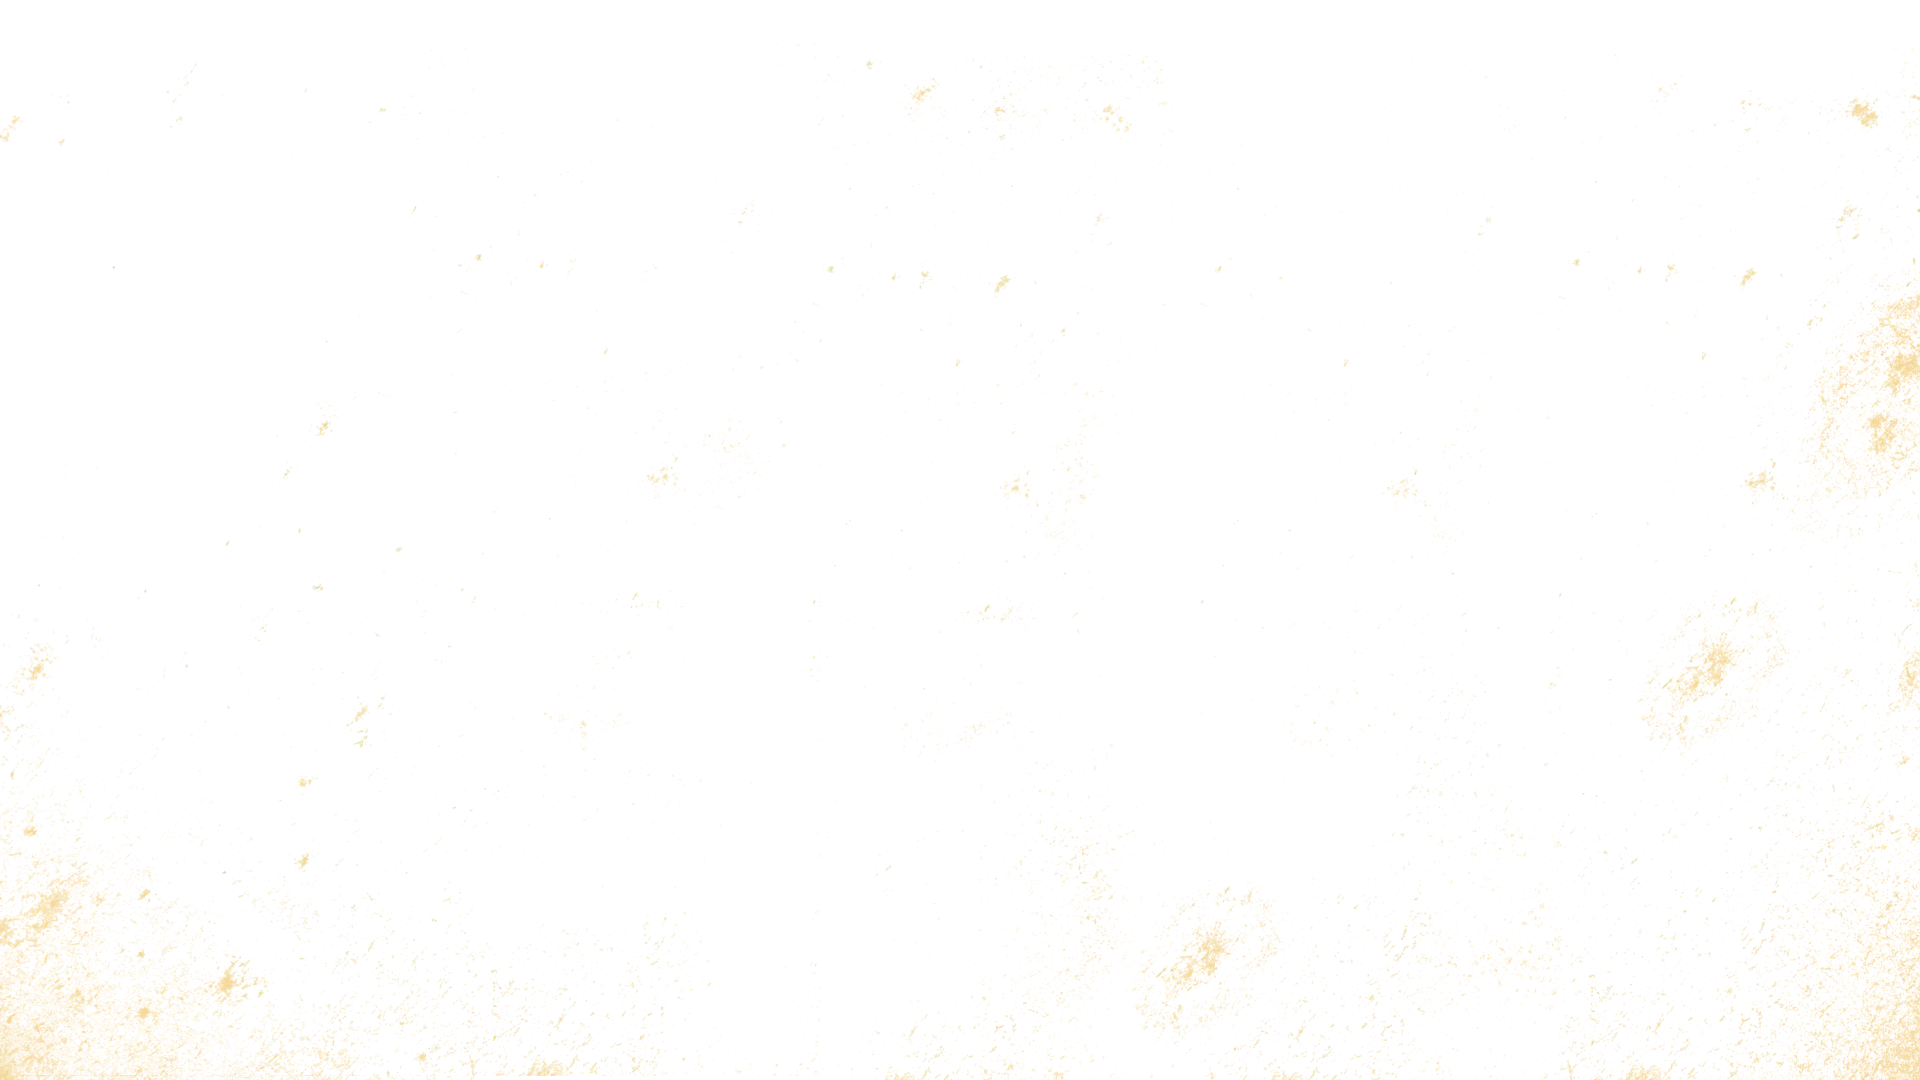
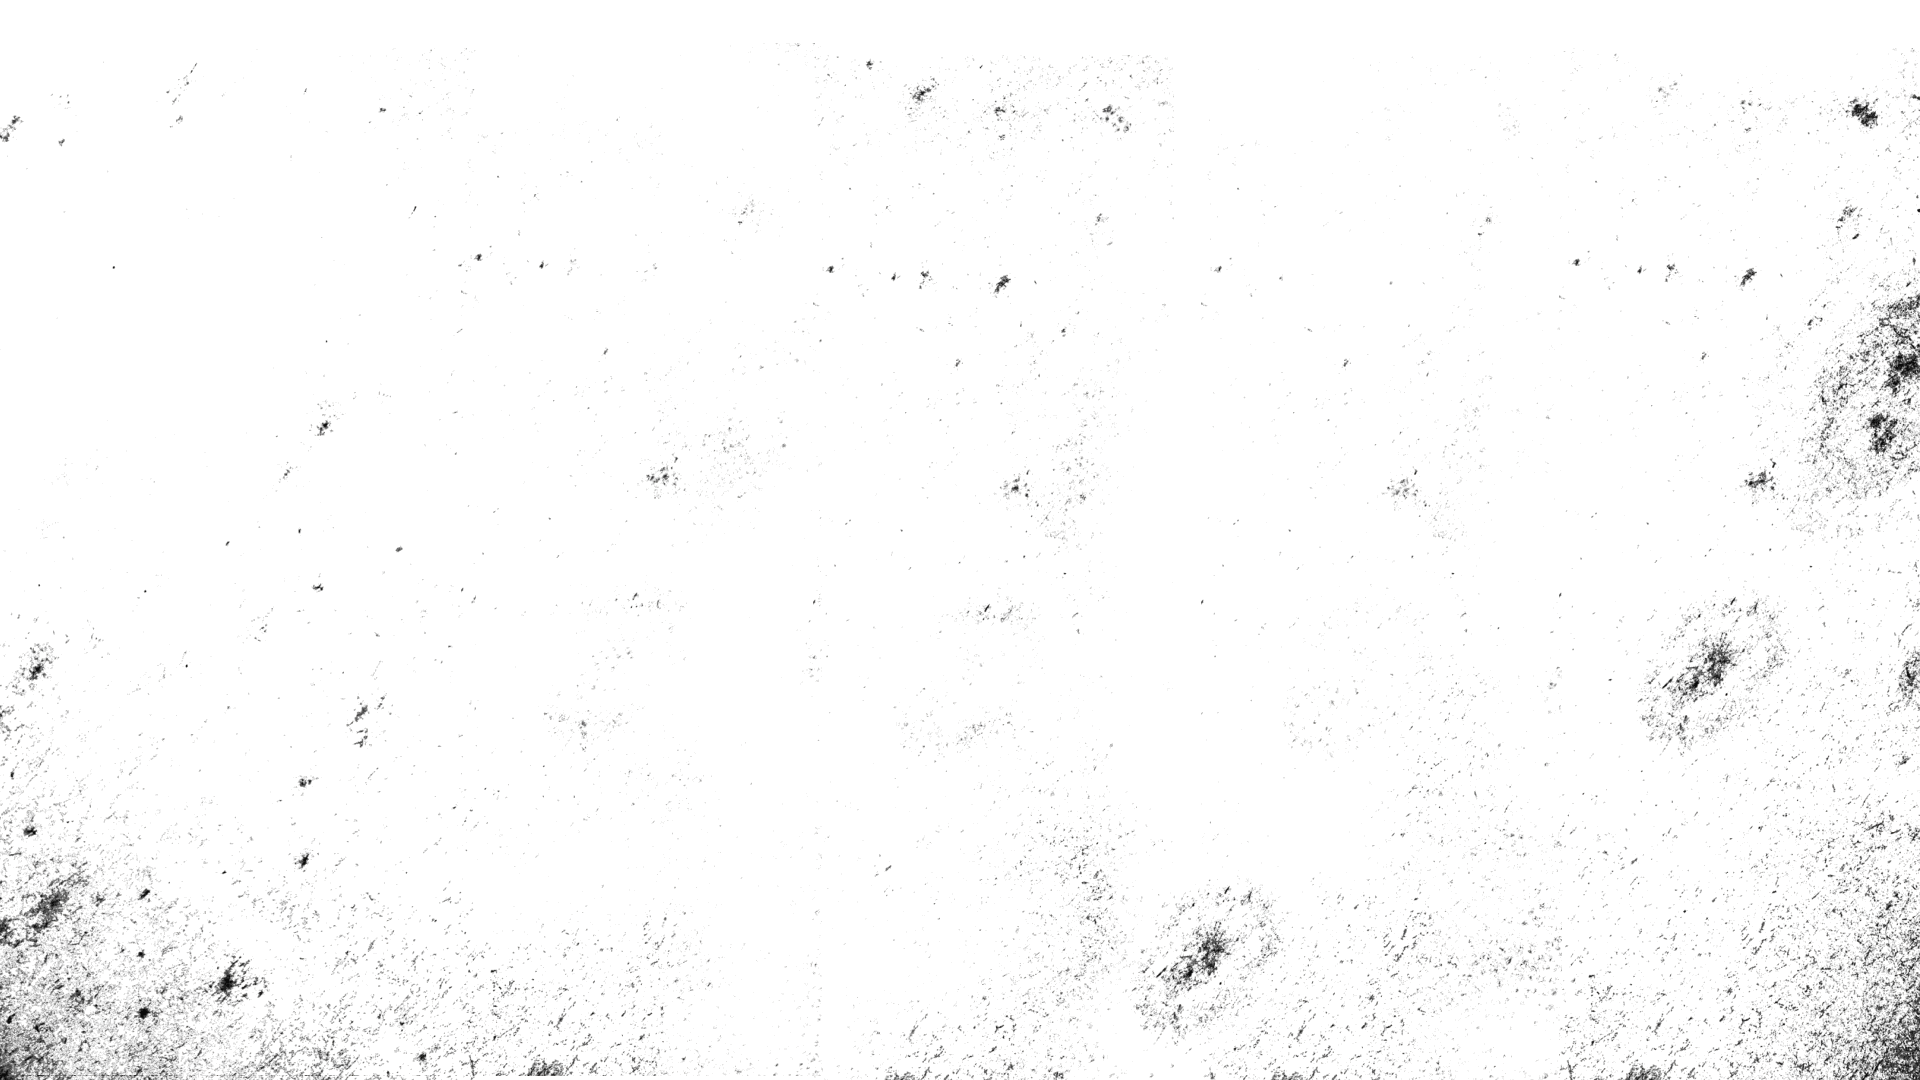
feat: dark mode colors theme

diff --git a/tailwind.config.js b/tailwind.config.js
@@ -120,84 +120,6 @@ module.exports = {
       boxShadow: {
         "inset-cool": "inset 0 -3px 8px -3px rgba(88, 96, 132,0.7)",
       },
-      backgroundImage: {
-        "old-effect": "url('/static/images/old_effect.webp')",
-        "old-effect-hr": "url('/static/images/old_effect_hr.webp')",
-      },
-      colors: {
-        achievements: {
-          common: "#fff",
-          rare: "#b1f9ff",
-          veryRare: "#ffe54c",
-        },
-        mainText: { DEFAULT: "#ffff" },
-        main: {
-          DEFAULT: "#D3842F",
-          50: "#D78F42",
-          100: "#D78E40",
-          200: "#D68B3C",
-          300: "#D58937",
-          400: "#D48633",
-          500: "#D3842F",
-          600: "#D1812C",
-          700: "#CD7F2B",
-          800: "#C87C2A",
-          900: "#C47A29",
-        },
-        second: {
-          DEFAULT: "#1A1A1A",
-          50: "#757575",
-          100: "#6B6B6B",
-          200: "#575757",
-          300: "#424242",
-          400: "#2E2E2E",
-          500: "#1A1A1A",
-          600: "#141414",
-          700: "#0F0F0F",
-          800: "#0A0A0A",
-          900: "#050505",
-        },
-        "main-opposed": {
-          DEFAULT: "#54575F",
-          50: "#747983",
-          100: "#71767F",
-          200: "#696E77",
-          300: "#62666F",
-          400: "#5B5F67",
-          500: "#54575F",
-          600: "#484B51",
-          700: "#3C3E44",
-          800: "#303236",
-          900: "#242529",
-        },
-        tertiary: {
-          DEFAULT: "#CAC8C4",
-          50: "#CAC7C4",
-          100: "#CAC8C4",
-          200: "#CAC8C4",
-          300: "#CAC8C4",
-          400: "#CAC8C4",
-          500: "#CAC8C4",
-          600: "#A9A59E",
-          700: "#878278",
-          800: "#615E56",
-          900: "#3B3935",
-        },
-        error: {
-          DEFAULT: "#d1002e",
-          50: "#e88097",
-          100: "#e36682",
-          200: "#df4d6d",
-          300: "#da3358",
-          400: "#d61a43",
-          500: "#d1002e",
-          600: "#bc0029",
-          700: "#a70025",
-          800: "#920020",
-          900: "#7d001c",
-        },
-        googleButtonText: { DEFAULT: "#555555" },
-      },
     },
     fontFamily: {
       sans: "Teko",
@@ -206,6 +128,183 @@ module.exports = {
   },
   plugins: [
     require("prettier-plugin-tailwindcss"),
+    require("tailwindcss-themer")({
+      themes: [
+        {
+          name: "default-theme",
+          extend: {
+            colors: {
+              achievements: {
+                common: "#fff",
+                rare: "#b1f9ff",
+                veryRare: "#ffe54c",
+              },
+              mainText: { DEFAULT: "#ffff" },
+              main: {
+                DEFAULT: "#FF2A37",
+                50: "#ff5c69",
+                100: "#ff525f",
+                200: "#ff4855",
+                300: "#ff3e4b",
+                400: "#ff3441",
+                500: "#ff2a37",
+                600: "#f5202d",
+                700: "#eb1623",
+                800: "#e10c19",
+                900: "#d7020f",
+              },
+              second: {
+                DEFAULT: "#1193a4",
+                special: "#1193a4",
+                50: "#43c5d6",
+                100: "#39bbcc",
+                200: "#2fb1c2",
+                300: "#25a7b8",
+                400: "#1b9dae",
+                500: "#1193a4",
+                600: "#07899a",
+                700: "#007f90",
+                800: "#007586",
+                900: "#006b7c",
+              },
+              "main-opposed": {
+                DEFAULT: "#262e52",
+                bg: "#30385c",
+                50: "#586084",
+                100: "#4e567a",
+                200: "#444c70",
+                300: "#3a4266",
+                400: "#30385c",
+                500: "#262e52",
+                600: "#1c2448",
+                700: "#121a3e",
+                800: "#081034",
+                900: "#00062a",
+              },
+              tertiary: {
+                DEFAULT: "#f5d898",
+                bg: "#f5d898",
+                50: "#ffffca",
+                100: "#ffffc0",
+                200: "#fff6b6",
+                300: "#ffecac",
+                400: "#ffe2a2",
+                500: "#f5d898",
+                600: "#ebce8e",
+                700: "#e1c484",
+                800: "#d7ba7a",
+                900: "#cdb070",
+              },
+              error: {
+                DEFAULT: "#d1002e",
+                50: "#e88097",
+                100: "#e36682",
+                200: "#df4d6d",
+                300: "#da3358",
+                400: "#d61a43",
+                500: "#d1002e",
+                600: "#bc0029",
+                700: "#a70025",
+                800: "#920020",
+                900: "#7d001c",
+              },
+              googleButtonText: { DEFAULT: "#555555" },
+            },
+            backgroundImage: {
+              "old-effect": "url('/static/images/old_effect.webp')",
+              "old-effect-hr": "url('/static/images/old_effect_hr.webp')",
+            },
+          },
+        },
+        {
+          name: "dark-theme",
+          extend: {
+            colors: {
+              achievements: {
+                common: "#fff",
+                rare: "#b1f9ff",
+                veryRare: "#ffe54c",
+              },
+              mainText: { DEFAULT: "#ffff" },
+              main: {
+                DEFAULT: "#FF2A37",
+                bg: "#FF2A37",
+                50: "#ff5c69",
+                100: "#ff525f",
+                200: "#ff4855",
+                300: "#ff3e4b",
+                400: "#ff3441",
+                500: "#ff2a37",
+                600: "#f5202d",
+                700: "#eb1623",
+                800: "#e10c19",
+                900: "#d7020f",
+              },
+              second: {
+                DEFAULT: "#1A1A1A",
+                special: "#1A1A1A",
+                50: "#757575",
+                100: "#6B6B6B",
+                200: "#575757",
+                300: "#424242",
+                400: "#2E2E2E",
+                500: "#1A1A1A",
+                600: "#141414",
+                700: "#0F0F0F",
+                800: "#0A0A0A",
+                900: "#050505",
+              },
+              "main-opposed": {
+                DEFAULT: "#54575F",
+                bg: "#323232",
+                50: "#747983",
+                100: "#71767F",
+                200: "#696E77",
+                300: "#62666F",
+                400: "#5B5F67",
+                500: "#54575F",
+                600: "#484B51",
+                700: "#3C3E44",
+                800: "#303236",
+                900: "#242529",
+              },
+              tertiary: {
+                DEFAULT: "#CAC8C4",
+                bg: "#0A0A0A",
+                50: "#CAC7C4",
+                100: "#CAC8C4",
+                200: "#CAC8C4",
+                300: "#CAC8C4",
+                400: "#CAC8C4",
+                500: "#CAC8C4",
+                600: "#A9A59E",
+                700: "#878278",
+                800: "#615E56",
+                900: "#3B3935",
+              },
+              error: {
+                DEFAULT: "#d1002e",
+                50: "#e88097",
+                100: "#e36682",
+                200: "#df4d6d",
+                300: "#da3358",
+                400: "#d61a43",
+                500: "#d1002e",
+                600: "#bc0029",
+                700: "#a70025",
+                800: "#920020",
+                900: "#7d001c",
+              },
+              googleButtonText: { DEFAULT: "#555555" },
+            },
+            backgroundImage: {
+              "old-effect": "url('/static/images/old_effect_dark.webp')",
+              "old-effect-hr": "url('/static/images/old_effect_hr_dark.webp')",
+            },
+          },
+        },
+      ],
+    }),
     require("tailwind-scrollbar"),
     rotateX,
     rotateY,

diff --git a/layouts/MainLoggedLayout/MainLoggedLayout.tsx b/layouts/MainLoggedLayout/MainLoggedLayout.tsx
@@ -24,22 +24,21 @@ const MainLoggedLayout = ({
   userName,
   userAvatar,
   children,
-  variant,
   pageId,
 }: LandingLayoutProps) => {
   return (
-    <main className='h-screen min-h-[600px] p-4 font-sans md:min-h-[900px] lg:p-8  '>
+    <main className='h-screen min-h-[600px] bg-tertiary-bg p-4 font-sans md:min-h-[900px] lg:p-8  '>
       <div className='relative flex h-full w-full items-center justify-center '>
-        <div className='relative flex h-full max-h-[calc(1080px_-_4rem)] w-full max-w-[1920px] flex-col overflow-y-auto  overflow-x-hidden  bg-main-opposed-400 scrollbar-hide'>
+        <div className='relative flex h-full max-h-[calc(1080px_-_4rem)] w-full max-w-[1920px] flex-col overflow-y-auto  overflow-x-hidden  bg-main-opposed-bg scrollbar-hide'>
           <Wrapper>
-            <DesktopHeaderWrapper >
+            <DesktopHeaderWrapper>
               <UserHeader
                 avatar={userAvatar}
                 userStats={userStats}
                 userName={userName}
               />
             </DesktopHeaderWrapper>
-            <MobileHeaderWrapper >
+            <MobileHeaderWrapper>
               <UserHeader
                 avatar={userAvatar}
                 userStats={userStats}

diff --git a/layouts/MainLayout/MainLayout.tsx b/layouts/MainLayout/MainLayout.tsx
@@ -15,7 +15,7 @@ interface LayoutProps {
 
 const MainLayout = ({ children, subtitle, variant }: LayoutProps) => {
   return (
-    <main className='h-screen min-h-[650px] p-4 font-sans xs:min-h-[950px] lg:p-8'>
+    <main className='h-screen min-h-[650px] bg-tertiary-bg p-4 font-sans xs:min-h-[950px] lg:p-8'>
       <div className='relative flex h-full w-full items-center justify-center'>
         <div
           className={`relative  flex h-full max-h-[calc(1080px_-_4rem)] w-full max-w-[1920px] flex-col overflow-x-hidden scrollbar-hide ${

diff --git a/layouts/MainLayout/components/Background/Background.tsx b/layouts/MainLayout/components/Background/Background.tsx
@@ -8,7 +8,7 @@ const Background = ({ variant }: BackgroundProps) => {
   return (
     <div
       className={`lg:clip-bg absolute left-0 top-0 bottom-0 w-full lg:mt-0 ${
-        variant === "secondary" ? "bg-main-opposed-500" : "bg-second-500"
+        variant === "secondary" ? "bg-main-opposed-bg" : "bg-second-500"
       } ${
         variant === "landing" ? "top-[50%] lg:top-0 lg:ml-[32.5%]" : ""
       }`}></div>

diff --git a/layouts/HeroLayout/components/HeroSlogan/HeroSlogan.tsx b/layouts/HeroLayout/components/HeroSlogan/HeroSlogan.tsx
@@ -9,7 +9,7 @@ const HeroSlogan = () => {
       <p className='self-start text-left text-mainText drop-shadow-lg'>
         {t("slogan_line_1")}
       </p>
-      <p className='-mr-[10%] self-end text-[0.8em] font-bold text-second-500 drop-shadow-lg'>
+      <p className='-mr-[10%] self-end text-[0.8em] font-bold text-second-special drop-shadow-lg'>
         {t("slogan_line_2")}
       </p>
     </div>

diff --git a/pages/_document.tsx b/pages/_document.tsx
@@ -5,7 +5,7 @@ class MyDocument extends Document {
     return (
       <Html lang='pl'>
         <Head></Head>
-        <body>
+        <body className='dark-theme'>
           <Main />
           <div id='overlays'></div>
           <NextScript />
